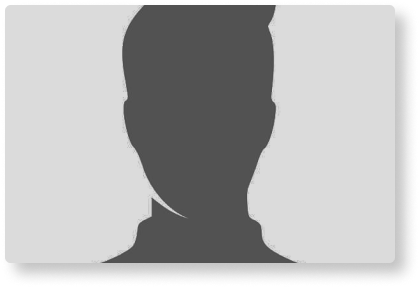
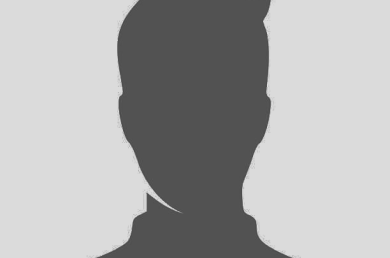
Finsih

diff --git a/src/components/Player.jsx b/src/components/Player.jsx
@@ -6,36 +6,22 @@ const Player = (props) => {
   const { member, closePop } = props;
 
   return (
-    <main className="fixed top-0 h-screen w-full overflow-scroll bg-[rgba(0,_0,_0,_0.40)] px-[4%] py-12 z-[10000]">
-      <div data-aos="flip-right" data-aos-duration="1200" className="bg-white max-w-6xl m-auto">
-        <div className="flex justify-between items-center p-8 py-6 lg:py-10 lg:p-16">
-          <figure className="w-16">
-            <img src={blacklogo} alt="Logo" />
-          </figure>
+    <main data-aos="fade-down-left" className="fixed top-0 h-screen w-full text-white overflowy-auto bg-blue-50 px-[5%] flex items-center flex-col lg:flex-row text-center gap-8 lg:text-left lg:py-12 pt-20 z-[10000] cursor-close" onClick={closePop}>
+      <div className="flex flex-col gap-2 lg:w-1/4">
+        <h3 className="font-semibold text-2xl">{member.name}</h3>
+        <p className="font-normal text-lg">{member.position}</p>
+      </div>
 
-          <button className="" onClick={closePop}>
-            <GrClose size={30} />
-          </button>
-        </div>
+      <div className="flex flex-col gap-6 lg:w-3/4">
+        <p className="text-lg mb-4">{member.about}</p>
 
-        <article className="flex flex-col items-center gap-10 pt-5 px-6 max-w-5xl h-auto pb-14 m-auto">
-          <figure className="w-full max-w-md h-auto max-h-[280px] rounded-xl overflow-hidden bg-transparent">
-            {member.image ? <img src={member.image} alt="Avatar" /> : <img src={avatar} alt="Avatar" />}
-          </figure>
-          <div className="flex flex-col gap-4 items-center">
-            <h3 className="font-medium text-2xl">{member.name}</h3>
-            <p className="text-lg">{member.position}</p>
-          </div>
-
-          <p className="text-lg">{member.about}</p>
-
-          
-          <ul className="flex flex-col gap-4 self-start">
-            <li data-aos="fade-right" data-aos-duration="1700"><h3 className="font-semibold text-xl self-start">Contact</h3></li>
-            <li data-aos="fade-right" data-aos-duration="1700" className="text-lg underline">{member.mail}</li>
-            <a data-aos="fade-right" data-aos-duration="1700" href={member.linkedin} className="text-lg underline">Linkedin Profile</a>
-          </ul>
-        </article>
+        <h3 className="font-semibold text-2xl">Contact {member.name.split(" ")[0]}</h3>
+        <ul className="flex flex-col gap-3 text-lg">
+          <li>{member.mail}</li>
+          <li>
+            <a href={member.linkedin} target="_blank" rel="noopener noreferrer" className="underline">LinkedIn</a>
+          </li>
+        </ul>
       </div>
     </main>
   )

diff --git a/src/pages/Team.jsx b/src/pages/Team.jsx
@@ -34,7 +34,7 @@ const Team = () => {
       about: "Andrew moved into Finance from Civil and Nautical Engineering in 1995. Over the subsequent 20 years Andrew worked for a number of Tier 1 institutions in which he developed and implemented Futures and Options strategies based on Technical and Statistical Methods. During the 2007 Credit Crisis Andrew managed the dismantling of a significant defaulting options positions on behalf of SocGen (Newedge). In 2010 Andrew co-founded Finex LLP and has grown the partnership into a UCITS and AIFM firm. In 2015 Andrew won the Technical Analyst Award. Andrew holds a BEng in Civil Engineering Design and Management from Cardiff University and holds certificates from the FCA in Client dealing and Partner functions.",
       mail: "andrew.gebhardt@fnx.ie",
       linkedin: "",
-      image: andy
+      image: ""
     },
     {
       name: "Mark Fitzpatrick",
@@ -62,20 +62,20 @@ const Team = () => {
   
 
   return (
-    <main className="relative pb-20">
+    <main className="relative pb-20 text-center">
       <OHeadline image="bg-team" title="Our Team" text="Our people make our company. They can make yours too." />
 
       <div className="flex flex-col gap-10 items-center pt-32">
-        <article className="max-w-[390px] min-w-72 w-full flex-col items-center hover:shadow-lg gap-3 flex cursor-pointer" onClick={() => {handlePop(0)}}>
-          <figure className="w-full h-auto max-h-[258px] rounded-xl overflow-hidden bg-transparent">
+        <article className="max-w-[390px] min-w-72 w-full flex-col items-center hover:shadow-lg gap-3 flex cursor-pointer pb-7" onClick={() => {handlePop(0)}}>
+          <figure className="w-full h-auto max-h-[258px] rounded-lg shadow-md overflow-hidden bg-transparent">
             {members[0].image ? <img src={members[0].image} alt="Avatar" /> : <img src={avatar} alt="Avatar" />}
           </figure>
 
-          <h3 className="font-medium text-2xl">{members[0].name}</h3>
+          <h3 className="font-medium text-2xl text-center">{members[0].name}</h3>
           <p className="text-lg">{members[0].position}</p>
         </article>
 
-        <div className="p-8 py-20 px-[5%] w-full m-auto flex justify-center gap-6 flex-wrap">
+        <div className="p-8 py-20 px-[4%] w-full m-auto flex justify-center gap-10 flex-wrap">
           {
             members.map((member, i) => {
               if (i == 0) {

diff --git a/src/components/Member.jsx b/src/components/Member.jsx
@@ -5,7 +5,7 @@ const Member = (props) => {
 
   return (
     <article data-aos="flip-right" data-aos-duration="1200" className="max-w-[260px] pb-8 min-w-72 w-full flex-col gap-3 flex cursor-pointer items-center hover:shadow-lg" onClick={() => {handlePop(number)}}>
-      <figure className="w-full h-[172px] rounded-xl overflow-hidden bg-transparent">
+      <figure className="w-full h-[172px] rounded-lg shadow-md overflow-hidden bg-transparent">
         {member.image ? <img src={member.image} alt="Avatar" /> : <img src={avatar} alt="Avatar" />}
       </figure>
 

diff --git a/tailwind.config.js b/tailwind.config.js
@@ -27,6 +27,9 @@ export default {
       },
       fontFamily: {
         "pop": ["Poppins", "sans-serif"]
+      },
+      cursor: {
+        'close': "url('../images/cursor.png'), pointer"
       }
     },
   },
